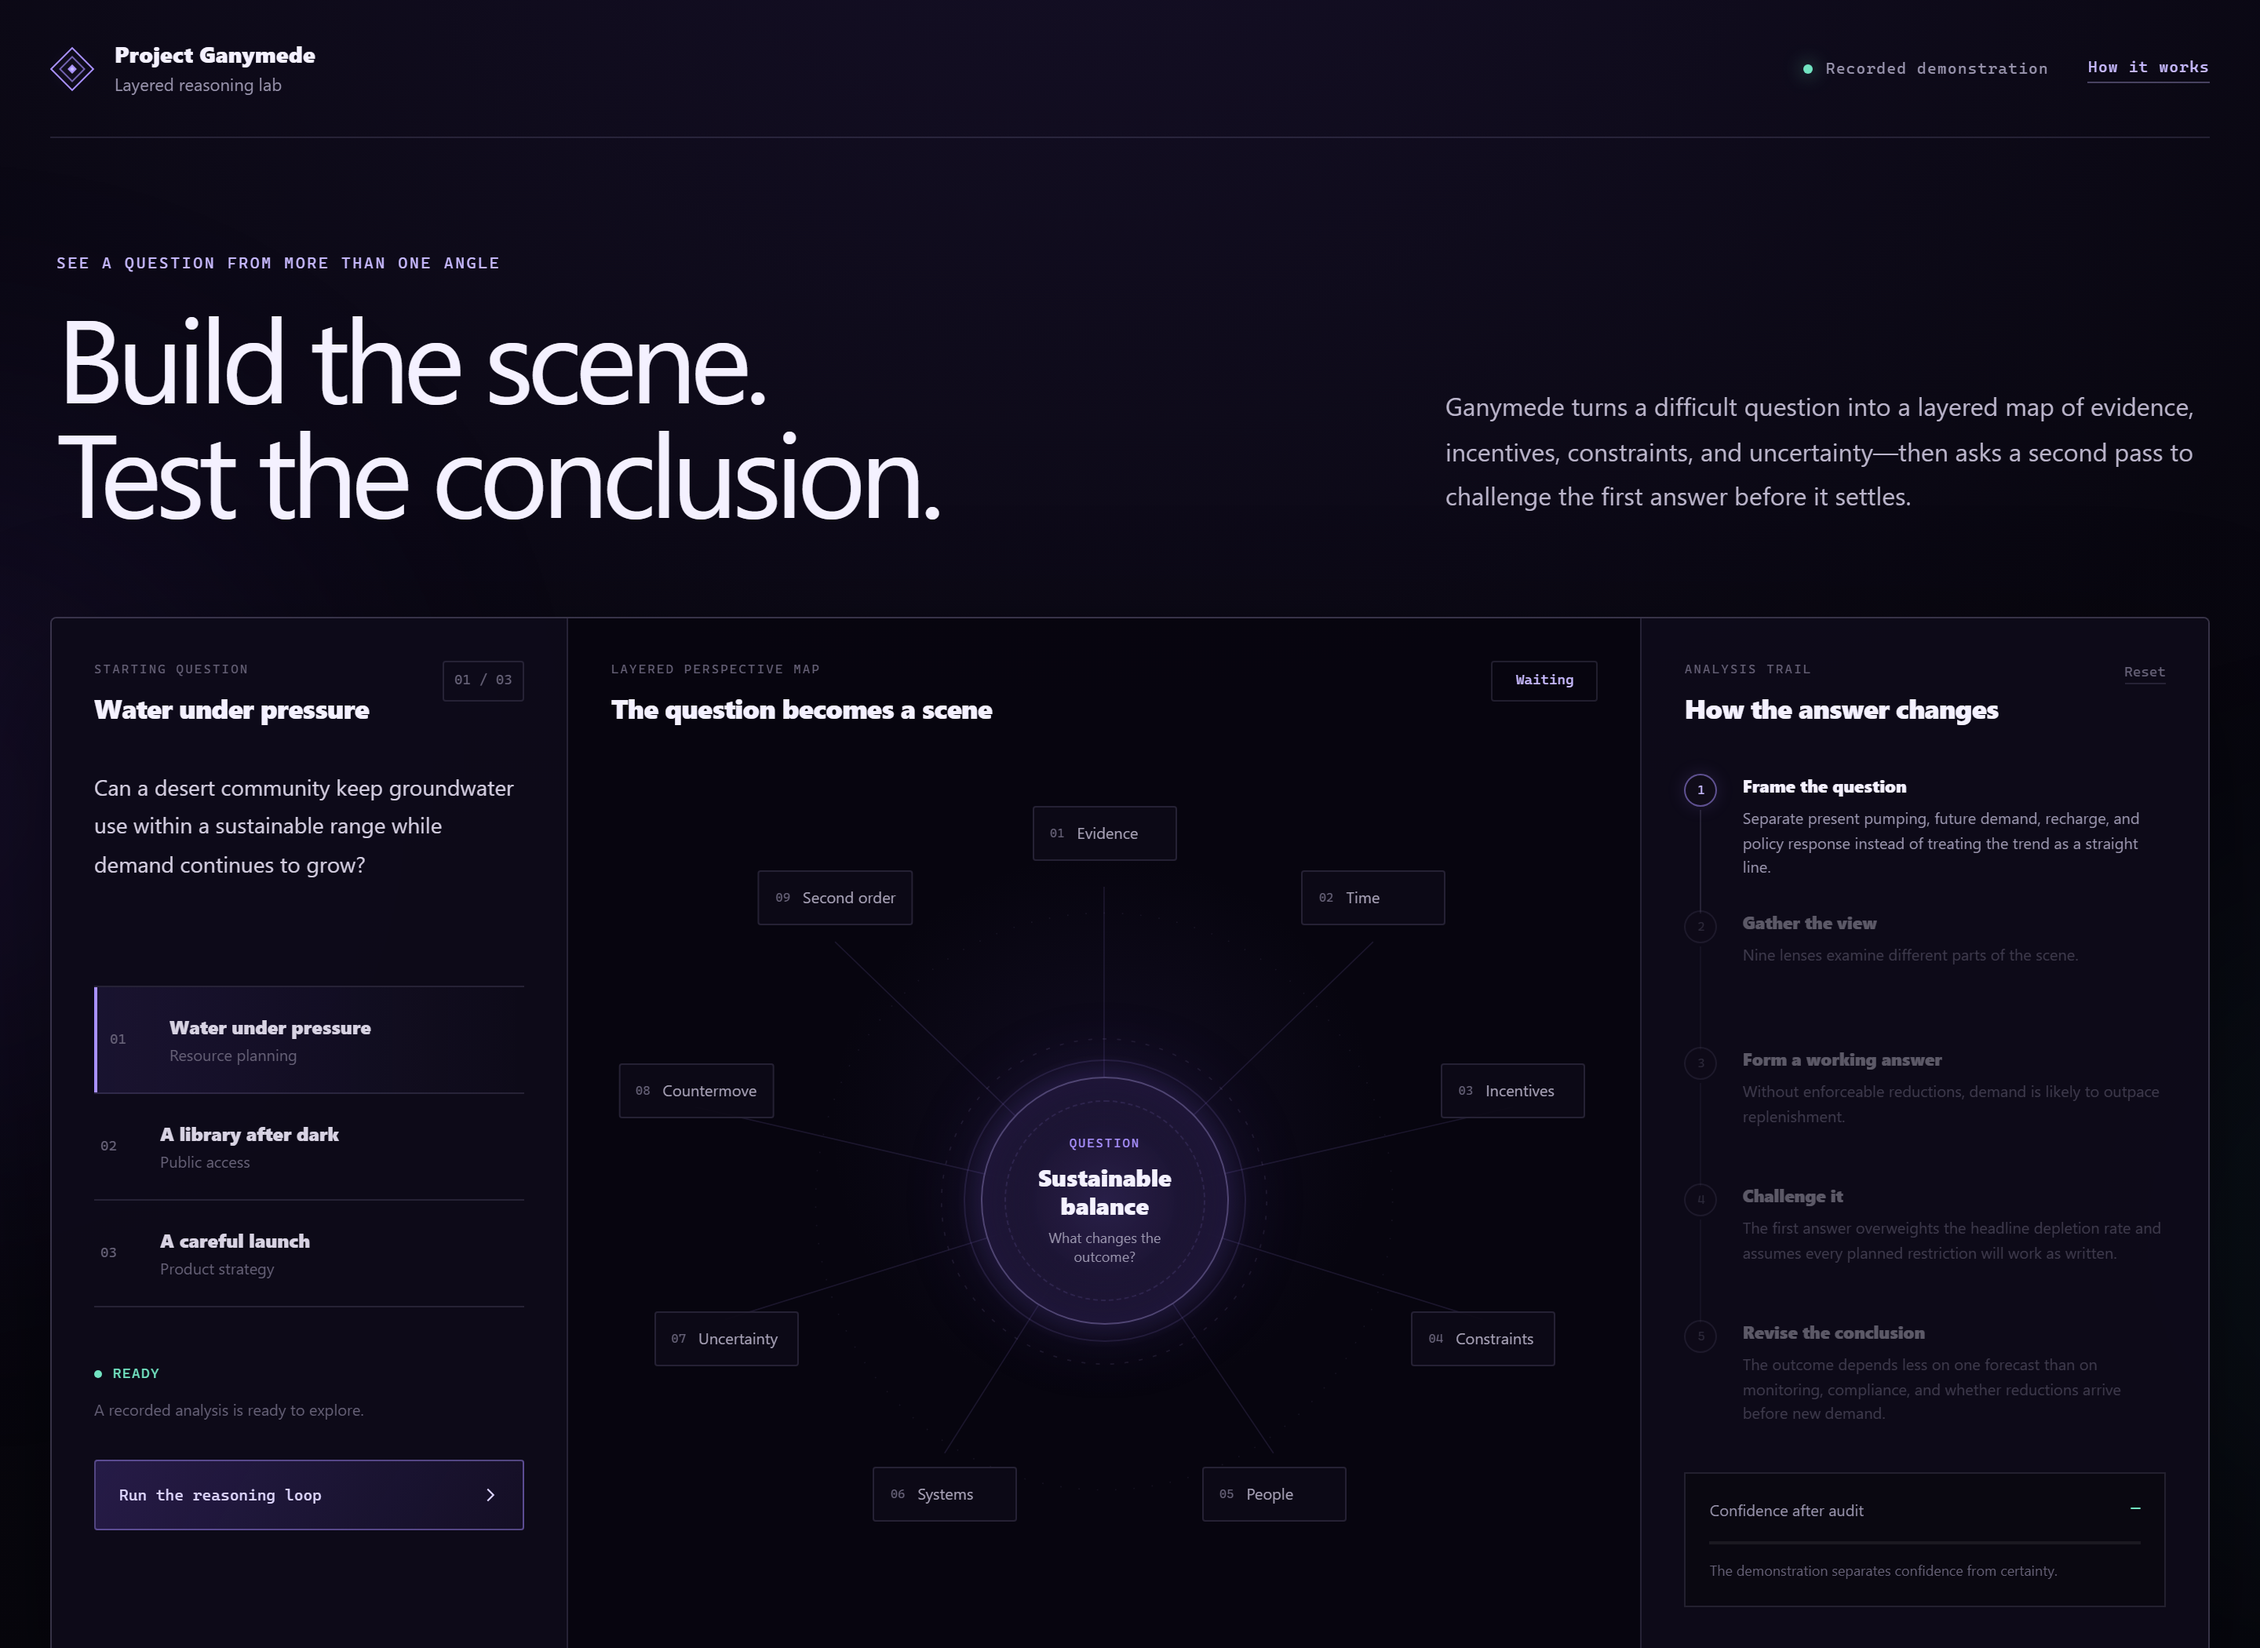
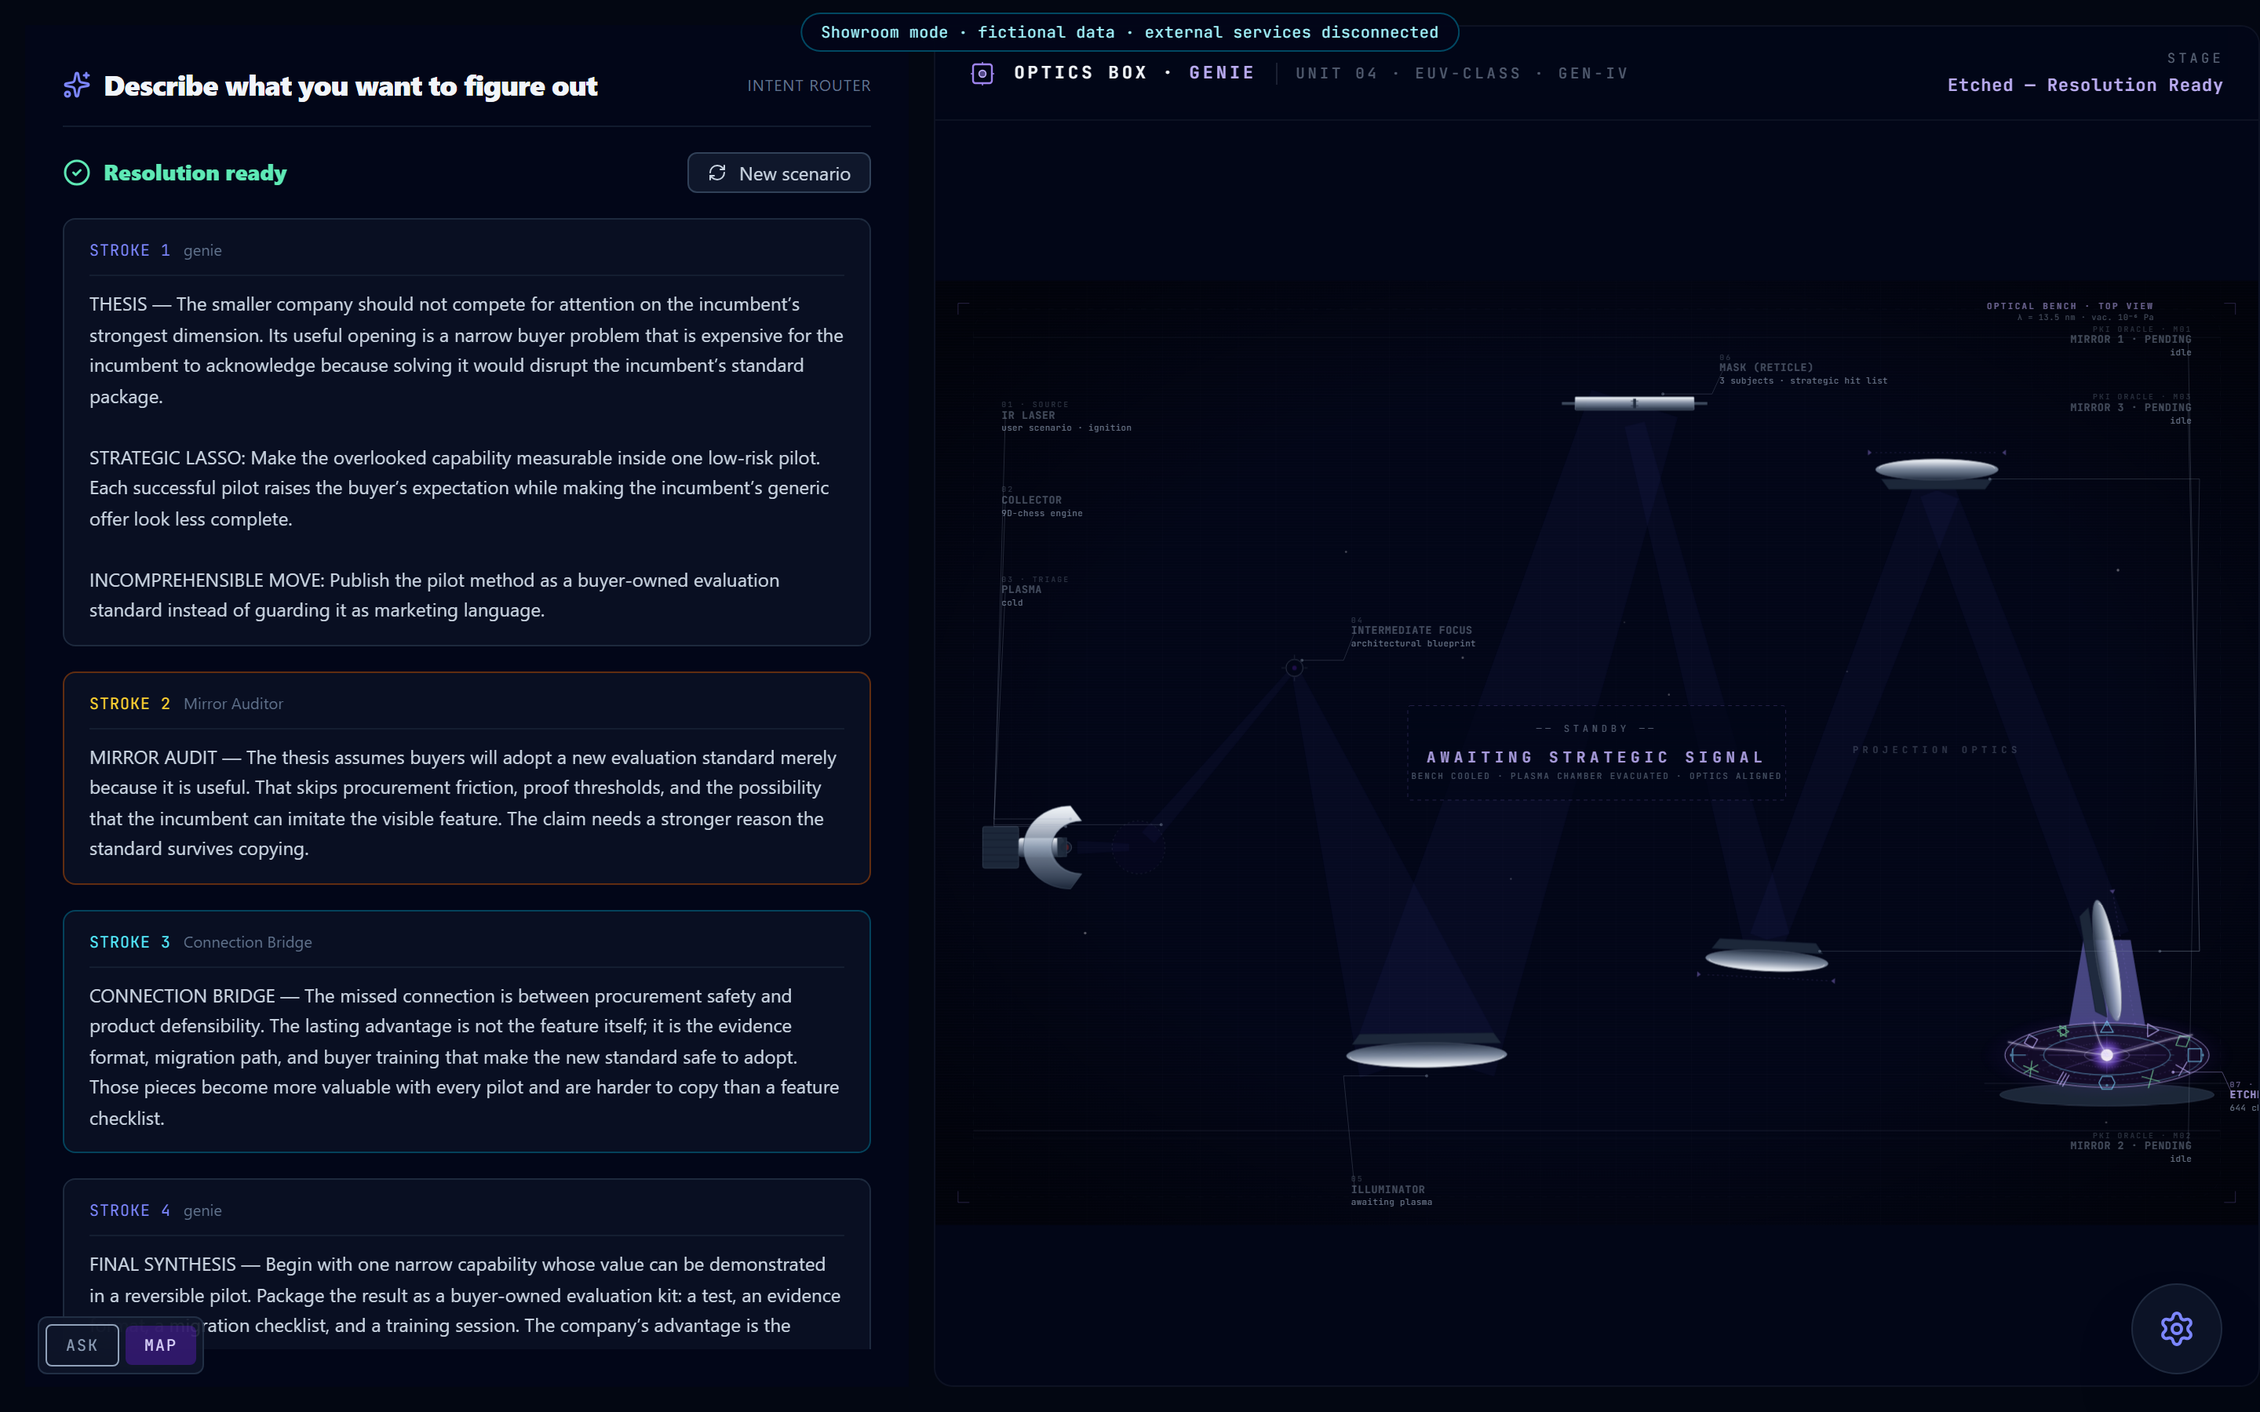
Repair Ganymede portfolio representation (#1)

diff --git a/client/src/data/projects.ts b/client/src/data/projects.ts
@@ -21,9 +21,9 @@ export const projects: Project[] = [
   {
     title: 'Project Ganymede',
     description:
-      'A multi-dimensional strategic-reasoning workspace that autonomously develops assumptions, counterarguments, evidence gaps, and revisions, visually represented as a lithography machine you can watch as the idea develops. It utilizes a design inspired by the corpus callosum: contrasting analytical hemispheres connected through synthesis.',
+      'A strategic-physics research sandbox that routes a scenario into the right workflow, develops an initial resolution, sends it through separate fault-finding and connection audits, and makes each analytical stroke visible through its optics-box interface.',
     image: 'ganymede.png',
-    tags: ['Decision support', 'Structured reasoning', 'Research'],
+    tags: ['Strategic modeling', 'Audit loop', 'Interactive system'],
     showcase: 'https://ganymede.scootsolute.org',
     source: 'https://github.com/anitacigawet/Project-Ganymede',
   },

diff --git a/README.md b/README.md
@@ -13,7 +13,7 @@ The portfolio leads with [Z-SPAN](https://zspan.org), an active public-interest 
 ![Z-SPAN presented as the portfolio's current focus](docs/screenshots/zspan-focus.png)
 
 - [Job Matrix](https://github.com/anitacigawet/Job-Matrix) — a local-first job-search workspace.
-- [Project Ganymede](https://github.com/anitacigawet/Project-Ganymede) — a layered strategic-reasoning workspace.
+- [Project Ganymede](https://github.com/anitacigawet/Project-Ganymede) — a strategic-physics research sandbox with visible audit and synthesis stages.
 - [Fractal Framework](https://github.com/anitacigawet/fractal-framework) — a guided path from a local problem to source-cited advocacy.
 - [The Cacti](https://github.com/anitacigawet/The-Cacti) — a self-hosted civic research workspace.
 - [PrisonBreak](https://github.com/anitacigawet/PrisonBreak) — source-grounded case reading and attorney-question preparation.
